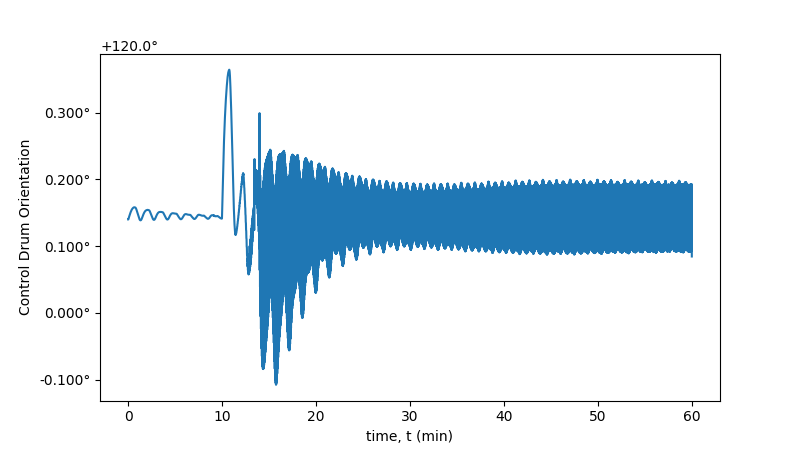
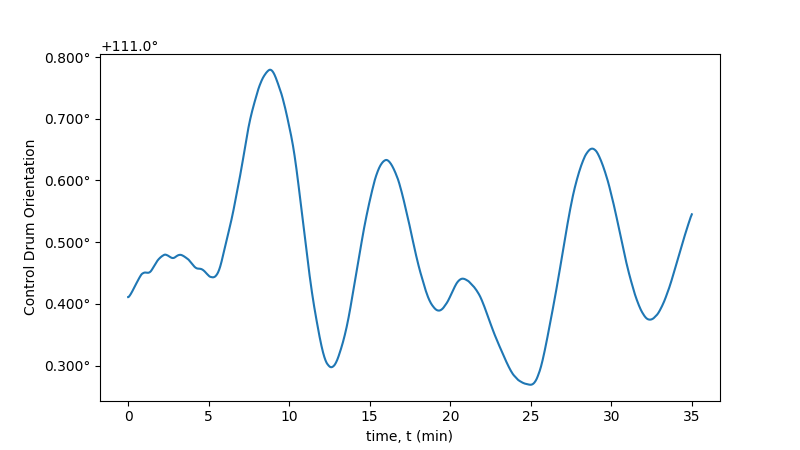
PI Controller is tuned reasonably well

diff --git a/plots.py b/plots.py
@@ -27,14 +27,15 @@ def x_vs_Tx(path,t,T_x,Tmin,Tmax):
     plt.clf()
     plt.close()
 
-def t_vs_Q(t,Qhex,Qcore):
+def t_vs_Q(t,Qhex,Qcore,SP):
     plt.figure(figsize=(8,4.5))
     plt.gca().yaxis.set_major_formatter(FormatStrFormatter('%.2f MW'))
-    plt.plot(t/60,Qhex/1e3,label='Heat Exchanger')
+    plt.plot(t/60,Qhex/1e3,label='Heat Exchanger',color='blue')
+    plt.plot(t/60,np.array(SP)/1e3, label='Core Set-Point',color='orange',linestyle=':')
     if Qcore != None:
         Qcore = np.array(Qcore)
-        plt.plot(t/60,Qcore/1e3, label='Core')
-        plt.legend(loc='best')
+        plt.plot(t/60,Qcore/1e3, label='Core',color='orange')
+    plt.legend(loc='best')
     plt.xlabel('time, t (min)')
     plt.ylabel('Power duty and load vs. time')
     plt.savefig("img/t_vs_Qt.png")
@@ -55,7 +56,7 @@ def t_vs_reac(t,Flow,Temp,Total):
     plt.clf()
     plt.close()
     
-def reac_phase(Flow,Temp,Times):
+def auto_reac_phase(Flow,Temp,Times):
     plt.figure()
     plt.gca().yaxis.set_major_formatter(FormatStrFormatter('%.d pcm'))
     plt.gca().xaxis.set_major_formatter(FormatStrFormatter('%.d pcm'))
@@ -71,10 +72,12 @@ def reac_phase(Flow,Temp,Times):
     timeslices = np.cumsum(np.trim_zeros(np.array(Times),'b'))
     plt.scatter(Temp[timeslices],Flow[timeslices],color='darkorange',zorder=5)
 
-    ts = []
+    ts,texts = [],[]
     for t,F,T in zip(timeslices,Flow[timeslices],Temp[timeslices]):
         text = f'  {t//60} min  '
-        ts.append(plt.text(T,F,text))
+        if text not in texts: 
+            texts.append(text)
+            ts.append(plt.text(T,F,text))
 
     plt.tight_layout()
     xavoid = np.concatenate((Temp,np.linspace(max,min,num=100)))
@@ -86,7 +89,46 @@ def reac_phase(Flow,Temp,Times):
     plt.gca().locator_params(axis='both', nbins=6)
     
     plt.title('Passive Feedback Phase Space')
-    plt.savefig("img/reac_phase.png",bbox_inches='tight')
+    plt.savefig("img/auto_reac_phase.png",bbox_inches='tight')
+    plt.clf()
+    plt.close()
+    
+def contr_reac_phase(Flow,Temp,Control,Times):
+    plt.figure()
+    plt.gca().yaxis.set_major_formatter(FormatStrFormatter('%.d pcm'))
+    plt.gca().xaxis.set_major_formatter(FormatStrFormatter('%.d pcm'))
+    Flow,Temp,Control = np.array(Flow)*1e5,np.array(Temp)*1e5,np.array(Control)*1e5
+    Passive = Flow+Temp
+    max = np.max(np.array([np.max(Passive),-np.min(Control)]))
+    min = np.min(np.array([np.min(Passive),-np.max(Control)]))
+    pad = 3
+    plt.xlim(min-pad,max+pad)
+    plt.ylim(-max-pad,-min+pad)
+    
+    plt.plot(Passive,Control,color='blue')
+    plt.plot([max,min],[-max,-min],linestyle=':',color='black',alpha=0.5)
+    timeslices = np.cumsum(np.trim_zeros(np.array(Times),'b'))
+    plt.scatter(Passive[timeslices],Control[timeslices],color='darkorange',zorder=5)
+
+    ts,texts = [],[]
+    for t,P,C in zip(timeslices,Passive[timeslices],Control[timeslices]):
+        text = f'  {t//60} min  '
+        if text not in texts: 
+            texts.append(text)
+            ts.append(plt.text(P,C,text))
+        
+
+    plt.tight_layout()
+    xavoid = np.concatenate((Passive,np.linspace(max,min,num=100)))
+    yavoid = np.concatenate((Control,np.linspace(-max,-min,num=100)))
+    adjust_text(ts,x=xavoid,y=yavoid,force_text=0.2,force_points=0.2,arrowprops={'arrowstyle':'->','color':'darkorange'})
+    plt.xlabel('Passive Reactivity')
+    plt.ylabel('Control Drum Reactivity')
+    
+    plt.gca().locator_params(axis='both', nbins=6)
+    
+    plt.title('Controlled Feedback Phase Space')
+    plt.savefig("img/contr_reac_phase.png",bbox_inches='tight')
     plt.clf()
     plt.close()
 
@@ -113,12 +155,14 @@ def t_vs_velo(t,v):
 def t_vs_angle(t,theta):
     offset = np.floor(controller.bias)
     theta -= offset
+    #dtheta = np.diff(theta,append=0)
     fig,ax = plt.subplots(figsize=(8,4.5))
     ax.yaxis.set_major_formatter(FormatStrFormatter('%.3f°'))
     #plt.ylim(np.floor(np.min(theta)),t[-1]/60)
     #plt.yticks(np.array([0,15,30,45,60,75,90,105,120,135,150,165,180]))
     plt.text(0,1.01,f'+{offset}°',transform=ax.transAxes)
     plt.plot(t/60,theta)
+    #plt.plot(t/60,dtheta)
 
     plt.xlabel('time, t (min)')
     plt.ylabel("Control Drum Orientation")

diff --git a/simulation.py b/simulation.py
@@ -39,7 +39,7 @@ Q0 is calculated above, Q1 is the power after the first power change, Q2 is the 
 Q1,Q2 = 10000,8000
 #Q1,Q2 = Q0,Q0
 
-t0,t01,t1,t12,t2 = 600,0,3000,0,0
+t0,t01,t1,t12,t2 = 300,300,600,300,600
 times = (0,t0,t01,t1,t12,t2)
 tlen= t0+t01+t1+t12+t2
 
@@ -54,7 +54,7 @@ Qhex_t = np.concatenate((Q00,Q01,Q11,Q12,Q22))
 pf_tau = len(loop.xdowncomer)/functions.base_to_milli(v)
 print(pf_tau)
 Qcore_SP = list(controller.prefilter(Qhex_t,t,pf_tau))
-plots.t_vs_Q(t,Qhex_t,Qcore_SP)
+plots.t_vs_Q(t,Qhex_t,None,Qcore_SP)
 
 #FEM
 '''
@@ -69,8 +69,8 @@ Freac_t = [functions.FlowRxty(T_x)]
 Treac_t = [-Freac_t[0]]
 
 error_t = [0]
-CDtheta_t = [controller.drum(error_t,True)]
-Creac_t = [controller.feedback(CDtheta_t[0])]
+CDtheta_t = [controller.drum(error_t)]
+Creac_t = [controller.angle2reac(CDtheta_t[0])]
 
 reac_t=[Freac_t[0]+Treac_t[0]+Creac_t[0]]
 reac_dot_t = [0]
@@ -90,8 +90,8 @@ for step in tqdm(t[1:]):
     Treac_t.append(Treac_t[-1] + functions.TempRxtyChange(T_x_t[-2],T_x_t[-1]))
 
     error_t.append(Qcore_SP[step]-Qcore_t[-1])
-    CDtheta_t.append(controller.drum(error_t,step==tlen-t2))
-    Creac_t.append(controller.feedback(CDtheta_t[-1]))
+    CDtheta_t.append(controller.drum(error_t))
+    Creac_t.append(controller.angle2reac(CDtheta_t[-1]))
 
     reac_t.append(Freac_t[-1]+Treac_t[-1]+Creac_t[-1])
     reac_dot_t.append(functions.RoC(reac_t[-2], reac_t[-1]))
@@ -113,12 +113,13 @@ for step in tqdm(t[1:]):
     Qcore_t.append(Q)
 
 print('plotting time arrays')
-plots.t_vs_Q(t,Qhex_t,Qcore_t)
+plots.t_vs_Q(t,Qhex_t,Qcore_t,Qcore_SP)
 plots.t_vs_reac(t,Freac_t,Treac_t,reac_t)
 plots.t_vs_exp(t,exponent)
 plots.t_vs_velo(t,v_t)
 plots.t_vs_angle(t,CDtheta_t)
-plots.reac_phase(Freac_t,Treac_t,times)
+plots.auto_reac_phase(Freac_t,Treac_t,times)
+plots.contr_reac_phase(Freac_t,Treac_t,Creac_t,times)
 
 print('plotting temperature profiles')
 Tmin = np.min(np.array(T_x_t))

diff --git a/controller.py b/controller.py
@@ -13,27 +13,43 @@ def prefilter(Qhex,time,tau):
     return Qcore_SP
 
 #Proportional Control Loop
-Control = 'On'
-#Control = 'Off'
-bias = 120.14
-gain = {'On':4e-4, 'Off':0}
+#Control = True
+Control = False
+bias = 111.41092285851987
+Ku,Tu = 3e-4,45
+KP = 0.45*Ku
+tau_int = 0.83333*Tu
+KI = KP/tau_int
+tau_der = 0
+KD = KP*tau_der
+
+angle_memory = bias
 
 cumu_error = 0
-def drum(error,reset):
+def drum(error):
     inst_error = error[-1]
-    
     global cumu_error  #preserve cumulative error from one call to next
-    if reset:   cumu_error=0 #erase cumulative error before second power change
     cumu_error += error[-1]
     
     try: roc_error = functions.RoC(error[-2], error[-1])
     except IndexError: roc_error = 0 #Set initial error rate of change to zero
     
-    angle = bias + gain[Control]*inst_error
+    angle = bias + KP*inst_error \
+          + KI*cumu_error \
+          #+ KD*roc_error
+
     return angle
 
-def feedback(angle):
-    reac=0
-    if Control == 'On':
-        reac = -0.02768 - 0.0717*np.cos(1.5*np.deg2rad(angle)-1.1781)
+coeff = [-2.79662670e-09,
+         1.78852923e-06,
+         -4.36111940e-04,
+         4.82874795e-02,
+         -2.00900479e+00]
+def angle2reac(angle):
+    reac = 0
+    if not Control:
+        return reac
+    else: 
+        for c in coeff:
+            reac = reac*angle+c
     return reac
